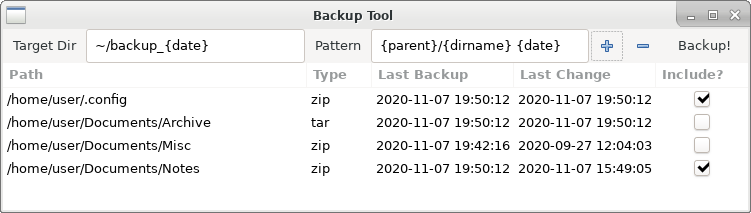
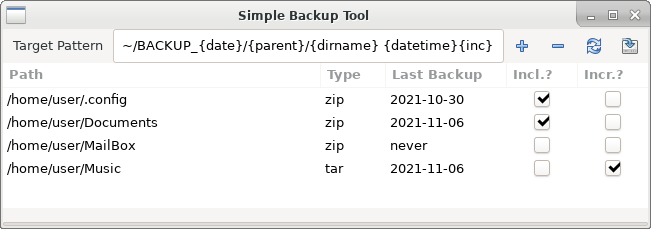
updated readme

diff --git a/README.md b/README.md
@@ -1,14 +1,14 @@
 Simple Backup Tool
 ==================
 
-_2016-2020, Tobias Küster_
+_2016-2021, Tobias Küster_
 
 This is a very simple tool for creating backups. I made this primarily for my
 personal use and still use it regularly. At first it was just a simple script
 and a file with the directories I want to back up, but eventually it got a
 proper UI and some more convenience features, but it is still very basic.
-For instance, it does not do incremental backups, but it e.g. detects whether
-a backup is needed at all based on the changed-dates of the files.
+For instance, detects whether a backup of a directory is needed at all based
+on the changed-dates of the files, and can also do simple icremental backups.
 
 
 Features
@@ -21,40 +21,46 @@ Features
 
 Configuration and File Formats
 ------------------------------
-The program is started with `python3 backup_gtk.py`. On the first start,
+The program is started with `python3 backup/main.py`. On the first start,
 a configuration file is created in `~/.config/t-kuester/backup.json` holding
 the different directories to be backed up as well as some more information.
 The file is automatically read when the program is started and updated when it
 is closed. The content of the file is explained below.
 
+```json
     {
-        "target_dir": "/home/user/backup_{date}",
-        "name_pattern": "{parent}/{dirname} {date}",
+        "target_pattern": "~/BACKUP/{parent}/{dirname} {date}{inc}",
         "directories": [
             {
                 "path": "/home/user/.config",
                 "archive_type": "zip",
                 "last_backup": "2020-11-07 19:58:41",
-                "last_changed": "2020-11-07 19:58:35",
-                "include": true
-            }, ...
+                "include": true,
+                "incremental": false
+            },
+            ...
         ]
     }
+```
 
-The `target_dir` is the directory where new backups should be stored. The
-`{date}` placeholder can be used for inserting the current date. Similarly, the
-`name_pattern` describes the name of the individual archive files within the
-backup directory. Again, the `{date}` can be inserted, as can the `{parent}`
-directory and the actual `{dirname}` of the directory to be backed up.
+The `target_pattern` indicates the directories where new backups should be stored.
+It allows for different placeholders:
+
+* `{date}`: the current date, e.g. `2020-11-07`
+* `{datetime}`: the current date and time, e.g. `2020-11-07 19:58:41`
+* `{parent}`: the full absolute path of the parent of the directory to be backed up
+* `{dirname}`: the name of the actual directory to be backed up
+* `{inc}`: can be used to add a suffic `_inc` to incremental backup archives
 
 The `directories` list shows the individual directories to be backed up. Their
 defining feature, of course, is the `path`. Besides that, you can chose whether
-to use `zip` or `tar` for each directory (e.g. for a collection of already
-compressed pictures or music, using `zip` will barely have any effect and will
-just take considerably longer than `tar`). The `last_backup` and `last_change`
-fields indicate exactly that, and are set automatically. The `include` field
-dictates whether the directory should be included in the next backup and can
-either be set manually or derived from the dates of the last backup and change.
+to use `zip` or `tar` for each directory. The `last_backup` field indicates
+exactly that, and is set automatically. The `include` field shows whether the
+directory should be included in the next backup and can either be set manually
+or derived from the dates of the last backup and change. The `incremental` field
+means that only those files will be included into the archive that have been
+changed since the last backup (i.e. the backup will be faster, but previous
+backups have to be keps in order to restore all files)
 
 
 User Interface
@@ -66,15 +72,15 @@ to the description of the configuration above.
 
 ![Screenshot](backup.png)
 
-* use the _Target Dir_ and _Pattern_ entries to define where and how to store
-  the created archive files
+* use the _Target Pattern_ entry to define where and how to store
+  the created archive files (see above for valid placeholders)
 * use the _Add_ and _Remove_ buttons to select new directories to add to the
   list or to remove entries from the list
-* the _Refresh_ button is used to refresh the _last-change_ attribute of the
-  directories and to set the _include_ attribute accordingly
+* the _Refresh_ button is used to check whether any files were changed since
+  the last backup and to set the _include_ attribute accordingly
 * the _Backup_ button is used to create the actual backup
-* the table can be sorted by each of the columns, but only the _Type_ and
-  _Include?_ columns are editable; valid archive types are `zip` and `tar`
+* the table can be sorted by each of the columns, but only the _Type_, _Incl._
+  and _Incr._ columns are editable; valid archive types are `zip` and `tar`
 * when the backup has been triggered, the bottom of the UI shows the progress
 * the configuration is automatically saved when the UI is closed
 
@@ -83,9 +89,19 @@ Creating Backups
 ----------------
 To create a backup, add and select the directories to be backed up and hit the
 _Backup_ button. For each directory, an archive of the selected type is created
-and temporarily stored in the working directory before being moved to the actual
-backup directory. If the file or the parent directories start with a `.` (i.e.
-indicating that they are hidden) the `.` is replaced with a `_` in the backup.
+and moved to the target directory. If the file or the parent directories start
+with a `.` (i.e. indicating that they are hidden) the `.` is replaced with a `_`
+in the backup so that no backups are missed when moving them to storage.
+
+Depending on the kind of files to be backed up, you may chose to use either `zip`
+(i.e. with compression) or `tar` (without compression), and whether to create an
+incremental backup or a full backup. For example:
+
+* for a collection of already compressed files, where new files are added but
+  files are rarely removed or changed, you should use `tar` and `incremental`
+* for regular, non-compressed files that often change, like a documents folder
+  or your mail box, use `zip` and a `non-incremental` backup
+
 _Note:_ Any existing files with the same name in those directories will be
 overwritten without further warning!
 
